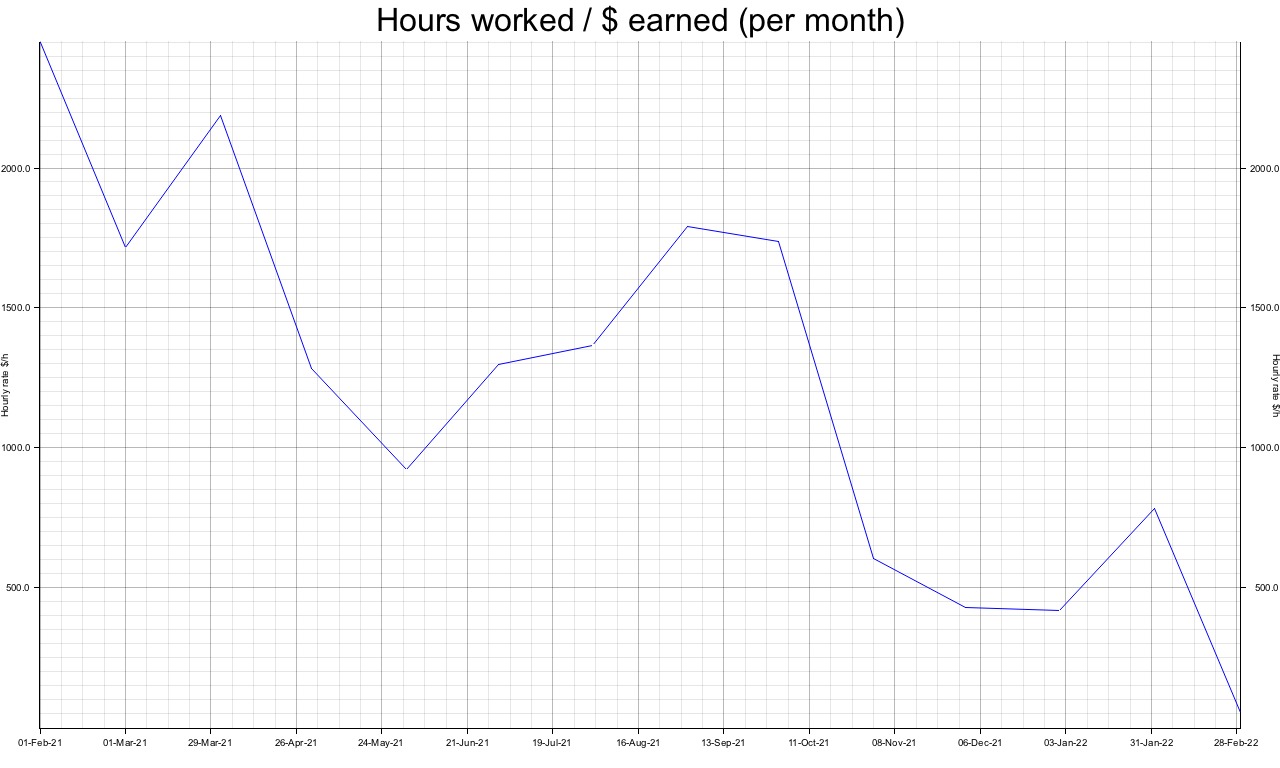
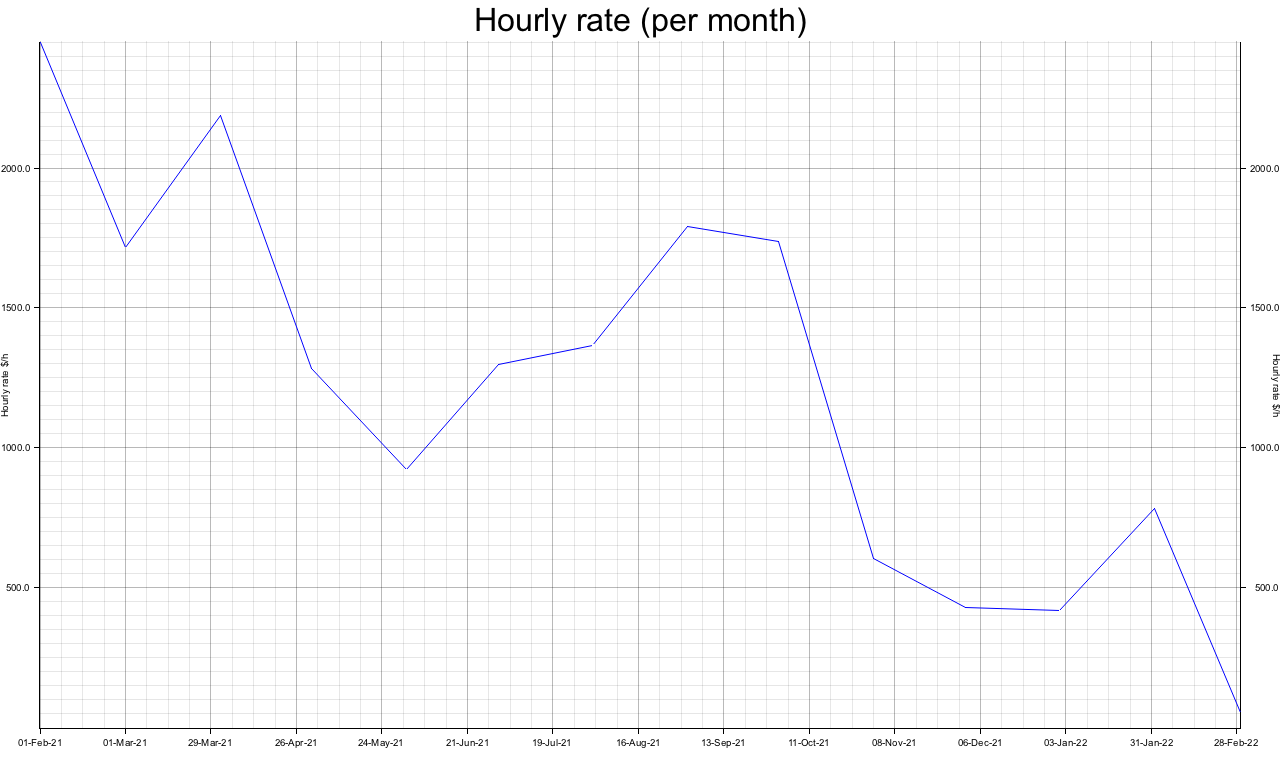
description fixes

Changed region(s): [[0.2812, 0.0, 0.7188, 0.0625]]

diff --git a/src/main.rs b/src/main.rs
@@ -232,7 +232,7 @@ fn create_hourly_rate_plot(hours_worked: Vec<(Date<Utc>, f64)>, awards_earned: V
         .set_label_area_size(LabelAreaPosition::Left, 40)
         .set_label_area_size(LabelAreaPosition::Right, 40)
         .set_label_area_size(LabelAreaPosition::Bottom, 40)
-        .caption("Hours worked / $ earned (per month)", ("sans-serif", 40))
+        .caption("Hourly rate (per month)", ("sans-serif", 40))
         .build_cartesian_2d(min_date..max_date, 0.0..max_hours)
         .unwrap();
 

diff --git a/README.md b/README.md
@@ -5,6 +5,6 @@
 Rust program to create stats for [Code4rena](https://code4rena.com/leaderboard)'s `cmichel` warden.
 Requires exporting a time sheet as a `csv` file (from a time tracking tool like [clockify](https://clockify.me/)) to plot the hours worked & hourly rate charts.
 
-#### Output
+### Output
 
-Creates charts in `plots` directory.
+Creates charts in [`plots`](./plots) directory.
